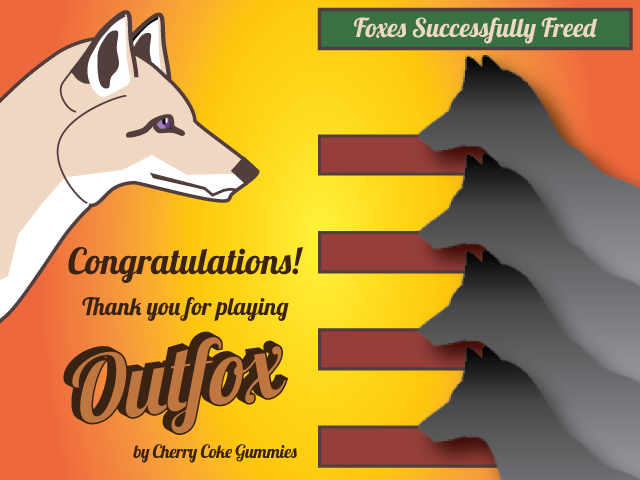
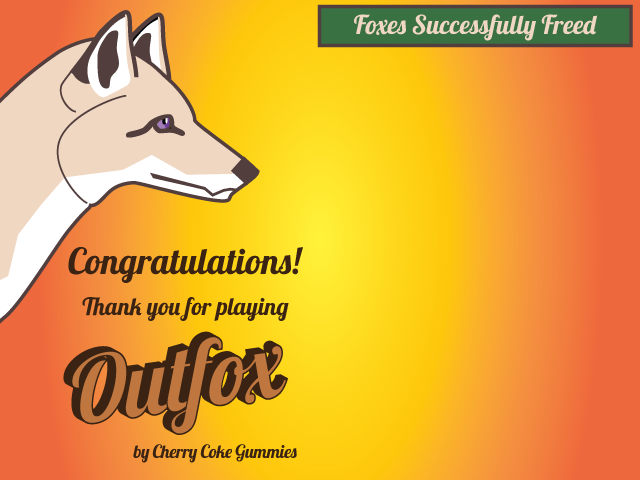
Congrats Page Functionality
Each fox is setup to a boolean to show with name or be a shadow with
??? for their name.

diff --git a/Outfox/js/main.js b/Outfox/js/main.js
@@ -28,10 +28,7 @@ var narratives = [  'As your consciousness stirs, the instinct to repeatedly bli
                     'issue getting rid of log graphic here when the final scene fades, ask for help. should just be black and fade for effect before going to gameplay'];
 var talkText;
 var logImg;
-var freeFox00 = false;
-var freeFox01 = false;
-var freeFox02 = false;
-var freeFox03 = false;
+var freeFox = [true,false,true,false];
 
 
 var Boot = function(game){};
@@ -104,6 +101,13 @@ Preloader.prototype = {
             this.load.image('BFF11', 's_BFF11.png');
             this.load.image('logImg', 's_BFFlog.png');
             this.load.image('Congrats', 's_congrats.png');
+            this.load.image('fox00', 's_congrats00.png');
+            this.load.image('fox01', 's_congrats01.png');
+            this.load.image('fox02', 's_congrats02.png');
+            this.load.image('fox03', 's_congrats03.png');
+            this.load.image('fox04', 's_congrats04.png');
+            this.load.image('barGreen', 's_freed.png');
+            this.load.image('barRed', 's_stayed.png');
 
 
             
@@ -284,7 +288,7 @@ Prologue.prototype = {
         // main menu logic
         if(game.input.keyboard.isDown(Phaser.Keyboard.SPACEBAR)) {
             // pass this.level to next state
-            game.state.start('BFFmeet');
+            game.state.start('Congrats');
         }
     }
 }
@@ -326,7 +330,7 @@ BFFmeet.prototype = {
                     switchScene(startScene);
                 } else if (startScene == scenes.length) {
                     talkText.alpha = 0;
-                    logImg.alpha = 0;
+                    //logImg.alpha = 0;
                     console.log('2nd Enter IF. startScene: ' + startScene);
                     game.add.tween(scene).to( { alpha: 0 }, 1500, Phaser.Easing.Linear.None, true);
                     game.add.tween(talkText).to( { alpha: 0 }, 1500, Phaser.Easing.Linear.None, true);
@@ -349,9 +353,9 @@ function switchScene(num) {
     scene = game.add.sprite(0,0,scenes[num].key);
     scene.alpha = 0;
     game.add.tween(scene).to( { alpha: 1 }, 1500, Phaser.Easing.Linear.None, true);
-    if (num > 0 && num < scenes.length - 1) {
+    /*if (num > 0 && num < scenes.length - 1) {
         logImg = game.add.sprite(79,306,'logImg');   
-    }
+    }*/
     talkText = game.add.text(108, 315, narratives[num], { font: 'Fira Sans', fontSize: '16px', fill: '#eed6c3', wordWrapWidth: '440', wordWrap: 'true' });
     talkText.alpha = 0;
     game.add.tween(talkText).to( { alpha: 1 }, 1500, Phaser.Easing.Linear.None, true);
@@ -535,10 +539,53 @@ Congrats.prototype = {
     },
     create: function() {
         console.log('Congrats: create');
-        game.stage.backgroundColor = "#000000";
+        game.stage.backgroundColor = "#270201";
 
         // create background image
         game.add.sprite(0, 0, 'Congrats');
+
+        game.add.sprite(320, 135, 'barRed');
+        game.add.sprite(320, 235, 'barRed');
+        game.add.sprite(320, 335, 'barRed');
+        game.add.sprite(320, 435, 'barRed');
+
+        var bar01 = game.add.sprite(320, 135, 'barGreen');
+        var bar02 = game.add.sprite(320, 235, 'barGreen');
+        var bar03 = game.add.sprite(320, 335, 'barGreen');
+        var bar04 = game.add.sprite(320, 435, 'barGreen');
+
+        var name01 = game.add.text(330, 144, 'PC Name', { font: 'Fira Sans', fontSize: '18px', fill: '#eed6c3', fontWeight: '700' })
+        var name02 = game.add.text(330, 244, 'PC Name', { font: 'Fira Sans', fontSize: '18px', fill: '#eed6c3', fontWeight: '700' })
+        var name03 = game.add.text(330, 344, 'PC Name', { font: 'Fira Sans', fontSize: '18px', fill: '#eed6c3', fontWeight: '700' })
+        var name04 = game.add.text(330, 444, 'PC Name', { font: 'Fira Sans', fontSize: '18px', fill: '#eed6c3', fontWeight: '700' })
+
+        var names = [name01,name02,name03,name04];
+
+        game.add.sprite(415, 50, 'fox00');
+        var fox01 = game.add.sprite(415, 50, 'fox01');
+        game.add.sprite(415, 150, 'fox00');
+        var fox02 = game.add.sprite(415, 150, 'fox02');
+        game.add.sprite(415, 250, 'fox00');
+        var fox03 = game.add.sprite(415, 250, 'fox03');
+        game.add.sprite(415, 350, 'fox00');
+        var fox04 = game.add.sprite(415, 350, 'fox04');
+        
+        var foxes = [fox01,fox02,fox03,fox04];
+        var bars = [bar01,bar02,bar03,bar04];
+
+        var i = 0;
+        foxes.forEach(function(fox) {
+            if(freeFox[i] == true){
+                fox.alpha = 1;
+                bars[i].alpha = 1;
+            }else {
+                fox.alpha = 0;
+                bars[i].alpha = 0;
+                names[i].text = '???';
+            }
+            i++;
+        });
+
 
 
     },

diff --git a/Outfox/css/styles.css b/Outfox/css/styles.css
@@ -1,3 +1,19 @@
 body {
 	font-family: Helvetica;
+	margin: 0 auto;
+}
+
+<div id=”gameArea”>
+  <canvas id=”gameCanvas”></canvas>
+  <div id=”statsPanel”></div>
+</div>
+
+#gameArea {
+  position: absolute;
+  left:     50%;
+  top:      50%;
+}
+
+canvas {
+	border: 5px solid #270201;
 }
